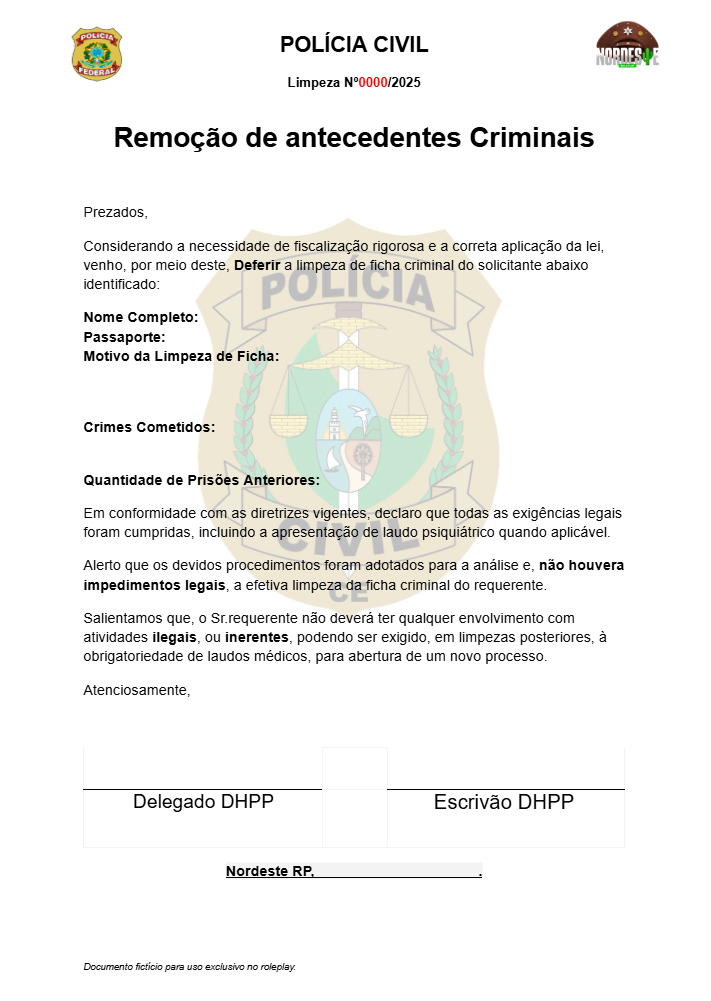
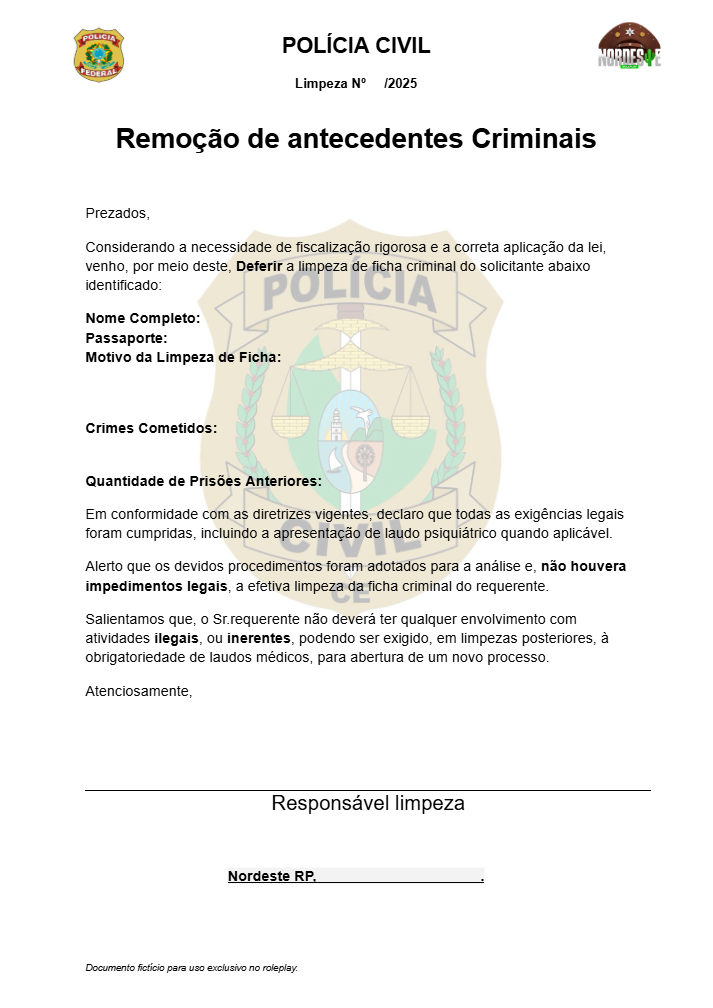
Update input field constraints and improve text wrapping logic in image generation

diff --git a/image_generator.py b/image_generator.py
@@ -16,25 +16,39 @@ class ImageTemplateRenderer:
         self.debug = debug
 
     def _wrap_text(self, text: str, font: ImageFont.FreeTypeFont, max_width: int) -> list[str]:
-        """Quebra o texto em multiplas linhas para caber na largura especificada."""
-        words = text.split(" ")
-        lines = []
-        current_line = []
+        """Quebra texto respeitando largura e quebras de linha (\n)."""
 
-        for word in words:
-            current_line.append(word)
-            line_w = int(font.getlength(" ".join(current_line)))
-            
-            if line_w > max_width and len(current_line) > 1:
-                # O comprimento estourou, remove a ultima palavra e fecha a linha
-                current_line.pop()
-                lines.append(" ".join(current_line))
-                current_line = [word]
+        final_lines = []
 
-        if current_line:
-            lines.append(" ".join(current_line))
+        # separa por ENTER (parágrafos)
+        paragraphs = text.split("\n")
 
-        return lines
+        for paragraph in paragraphs:
+            words = paragraph.split(" ")
+            current_line = []
+
+            for word in words:
+                test_line = " ".join(current_line + [word])
+                line_w = int(font.getlength(test_line))
+
+                if line_w <= max_width:
+                    current_line.append(word)
+                else:
+                    if current_line:
+                        final_lines.append(" ".join(current_line))
+                    current_line = [word]
+
+            if current_line:
+                final_lines.append(" ".join(current_line))
+
+            # adiciona linha vazia entre parágrafos
+            final_lines.append("")
+
+        # remove última linha vazia extra
+        if final_lines and final_lines[-1] == "":
+            final_lines.pop()
+
+        return final_lines
 
     def _draw_centered_text(
         self,

diff --git a/bot/flows/actions.py b/bot/flows/actions.py
@@ -24,14 +24,14 @@ class LimpezaFichaModal(Modal, title='Formulario: Limpeza de Ficha'):
         label='Passaporte',
         placeholder='Ex: 12345',
         required=True,
-        max_length=20
+        max_length=10
     )
     motivo = TextInput(
         label='Motivo da Limpeza',
         style=discord.TextStyle.paragraph,
         placeholder='Ex: Cumpriu servico comunitario...',
         required=True,
-        max_length=500
+        max_length=130
     )
     prisoes = TextInput(
         label='Quant. de Prisoes Anteriores',
@@ -60,8 +60,8 @@ class LimpezaFichaModal(Modal, title='Formulario: Limpeza de Ficha'):
 
         MEU_LAYOUT = {
             "Nome completo": {"box": (205, 310, 647, 327), "size": 15, "color": "black", "valign": "center", "halign": "left"},
-            "passaporte": {"box": (171, 327, 295, 345), "size": 15, "color": "black", "valign": "center", "halign": "left"},
-            "motivo da limpeza": {"box": (83, 370, 632, 410), "size": 15, "color": "black", "valign": "top", "halign": "left"},
+            "passaporte": {"box": (171, 333, 295, 345), "size": 15, "color": "black", "valign": "center", "halign": "left"},
+            "motivo da limpeza": {"box": (83, 370, 615, 410), "size": 15, "color": "black", "valign": "top", "halign": "left"},
             "crimes cometidos": {"box": (85, 440, 632, 465), "size": 15, "color": "black", "valign": "top", "halign": "left"},
             "Quantidade de Prisoes Anteriores": {"box": (327, 475, 381, 485), "size": 15, "color": "black", "valign": "center", "halign": "left"}
         }
